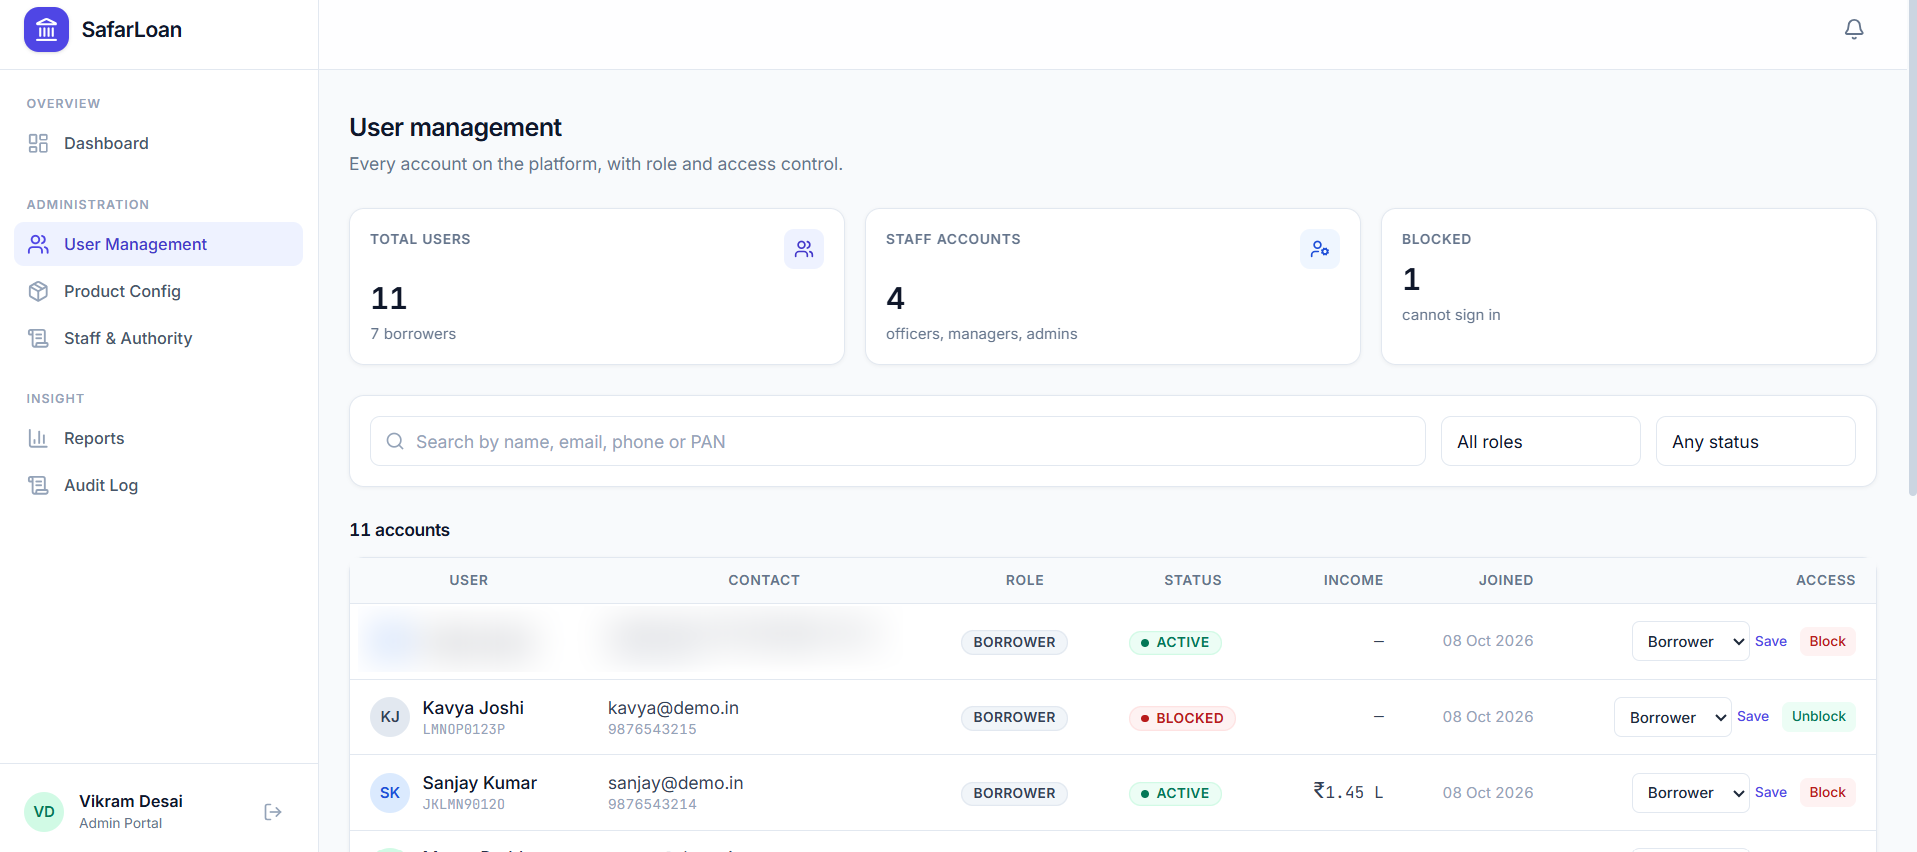
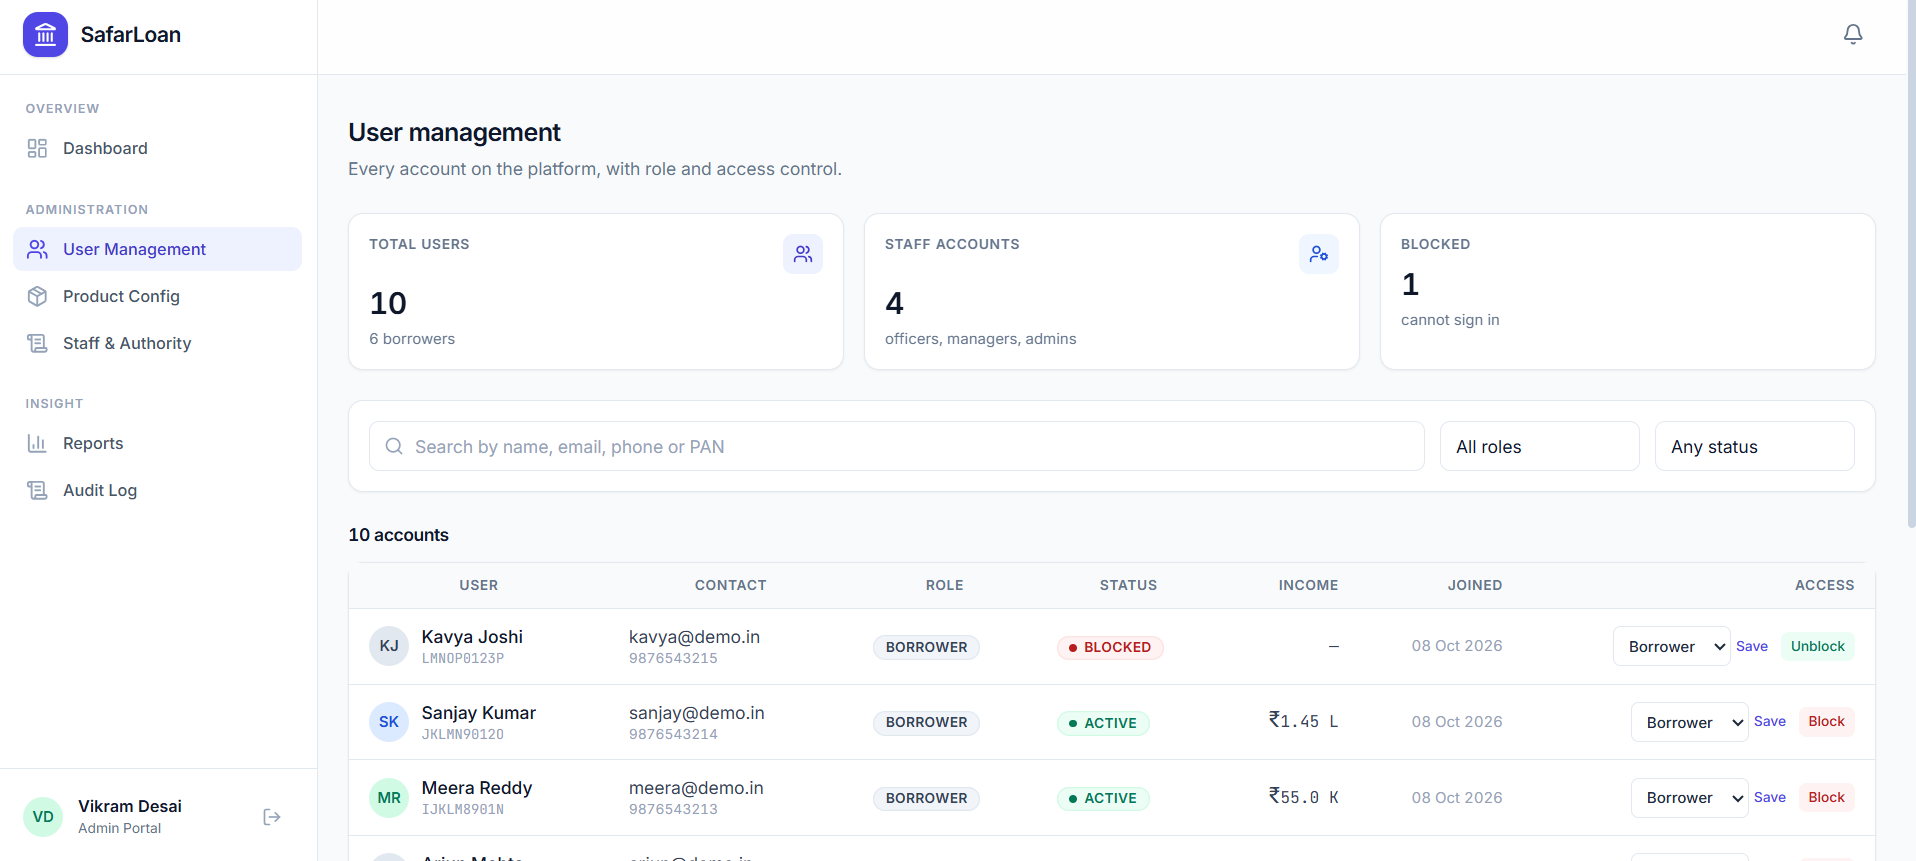
docs: lead the README with scale and the engineering worth reading
The README explained the project thoroughly but asked a reader to infer its
size and its substance from fifteen sections further down. Added an "At a
glance" table and four pointers above the fold, so the first screen answers
what this is, how big it is, and why it is not a tutorial project.

Every figure in it was re-counted rather than reused: 30 routes, ~18,700 lines
across 126 tracked files, 25 tables, 20 enums, 39 RLS policies, 60 unit
assertions, 11 verification commands, 61 seed invariants, 17 embed checks.

The four pointers link straight at the parts that carry the engineering —
the EMI maths and its rounding-drift handling, the schema where authorisation
lives in Postgres, the verification toolchain built on the real parser, and the
single choke point that stops a page skipping the role check. A reviewer can
open one file and see the reasoning.

Also re-captured `admin-users.png` now that the test account has been deleted,
so the real email and phone are gone from the image and the blur is no longer
needed. The row reads `Kavya Joshi / kavya@demo.in` and the header counts 10
users and 6 borrowers, which is the seeded state.

`.gitignore` now covers `.tmp-*`. A scratch script left at the repo root was
about to be picked up by `git add -A`; the pattern makes that class of accident
impossible rather than relying on noticing it.

Verified: 15 TOC anchors resolve including the new section, 24 fences
[…]

diff --git a/README.md b/README.md
@@ -24,6 +24,32 @@ and reporting.**
 > **Run it yourself** — clone, paste four Supabase keys, run `npm run db:setup`.
 > Demo accounts are seeded; the password for all of them is `demo1234`.
 
+## At a glance
+
+| | |
+|---|---|
+| **Scale** | 30 routes across 3 role-gated portals · ~18,700 lines across 126 files |
+| **Data model** | 25 tables · 20 enums · 39 RLS policies, enforced on every table |
+| **Correctness** | 60 unit assertions over the finance and risk logic |
+| **Verification** | 11 commands — SQL parsed by the real PostgreSQL parser, 61 seed invariants, 17 PostgREST embed checks, 30 routes rendered under live sessions |
+| **CI** | 4 independently required status checks; database jobs gated behind secrets so a fork PR can never read `service_role` |
+| **Domain** | Reducing-balance EMI · FOIR underwriting · two-tier sanctioning authority · DPDP-aligned PII handling |
+
+### The parts worth reading
+
+- **[`lib/finance/emi.ts`](lib/finance/emi.ts)** — amortisation where the final
+  instalment absorbs accumulated rounding drift, so the principal column sums back to
+  the original amount exactly. Covered by tests including the edge cases. An EMI that
+  is off by a few paise is a support ticket forever.
+- **[`supabase/migrations/0001_core_schema.sql`](supabase/migrations/0001_core_schema.sql)**
+  — authorisation is enforced in Postgres, not trusted to application code. A leaked
+  anon key exposes nothing, and deleting a user still cascades correctly.
+- **[`scripts/`](scripts/)** — what makes the above checkable: the real PostgreSQL
+  parser instead of a regex, assertions against live data instead of hopeful defaults,
+  and a setup command that fails with the fix rather than a bare foreign-key error.
+- **[`proxy.ts`](proxy.ts) + [`lib/portal.tsx`](lib/portal.tsx)** — role resolution
+  funnels through one typed choke point, so a page cannot accidentally skip the check.
+
 ## Why this repo is shaped the way it is
 
 Three portals, one database — so **Row Level Security is the security model**, not an
@@ -44,6 +70,7 @@ The portal gallery is further down — jump to [Screenshots](#screenshots).
 
 ## Table of contents
 
+- [At a glance](#at-a-glance)
 - [Quick start](#quick-start)
 - [Demo accounts](#demo-accounts)
 - [The three portals](#the-three-portals)
